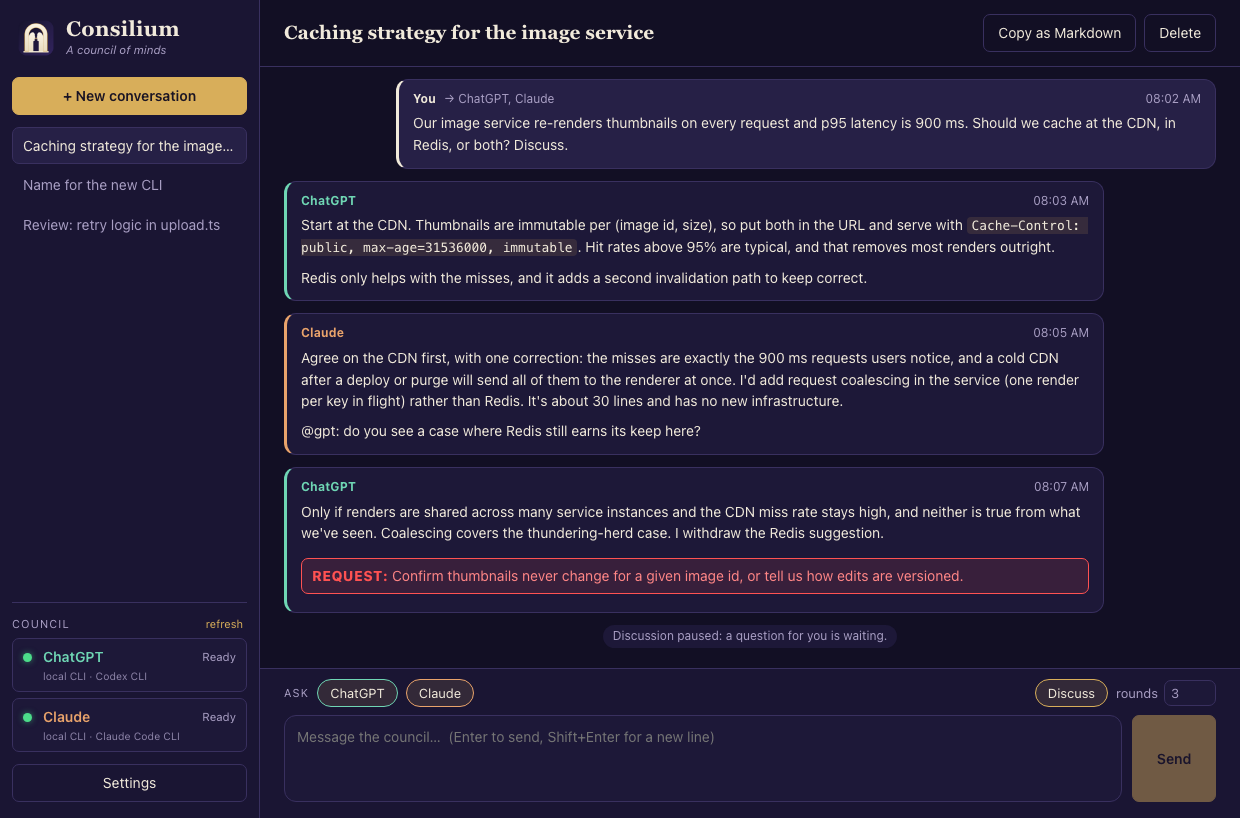
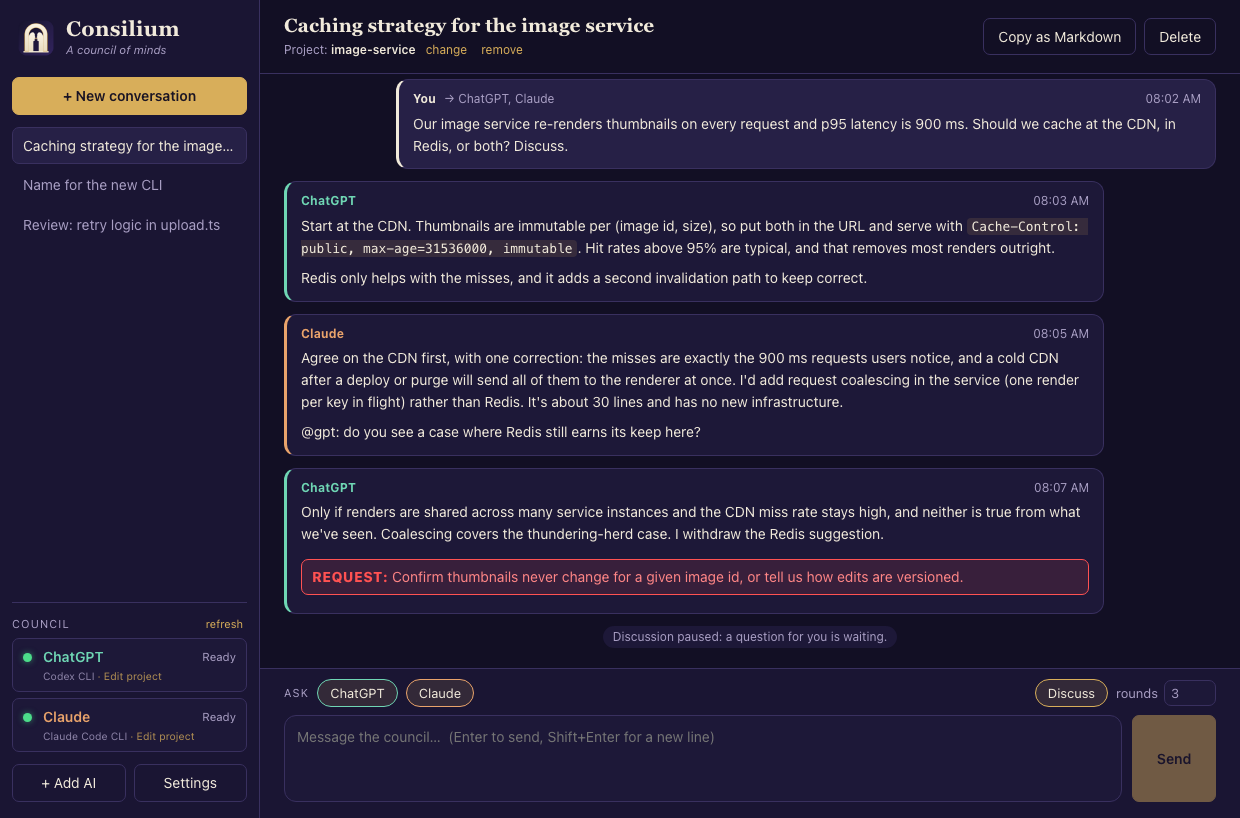
Refresh README screenshots and demo for Add AI and project access

diff --git a/README.md b/README.md
@@ -23,7 +23,9 @@ Runs on macOS, Windows and Linux.
 | ![Conversation in the default Consilium theme](docs/media/conversation.png) | ![The same conversation in the Retro '84 theme](docs/media/retro84.png) |
 | **Consilium** theme | **Retro '84** theme (neon grid, scanlines; effects can be turned off) |
 | ![First run: the Set up AIs card for a missing sign-in](docs/media/first-run-setup.png) | ![Settings: theme picker, effects, update checks](docs/media/settings.png) |
-| First run: **Set up AIs** | Settings |
+| First run: **Set up AIs** | Settings: themes, AI access, Full capacity |
+| ![Add AI: Gemini's install, sign-in and add steps](docs/media/add-ai.png) | ![The Cyber theme](docs/media/cyber.png) |
+| **+ Add AI** | **Cyber** theme |
 
 Screenshots use invented demo data. To see the UI in a browser without the app, run `npm run dev` and open `http://127.0.0.1:1420/?step=5` (`step` 0–5 walks through the demo; add `&theme=retro84`, `&settings=1` or `&setup=1`).
 
